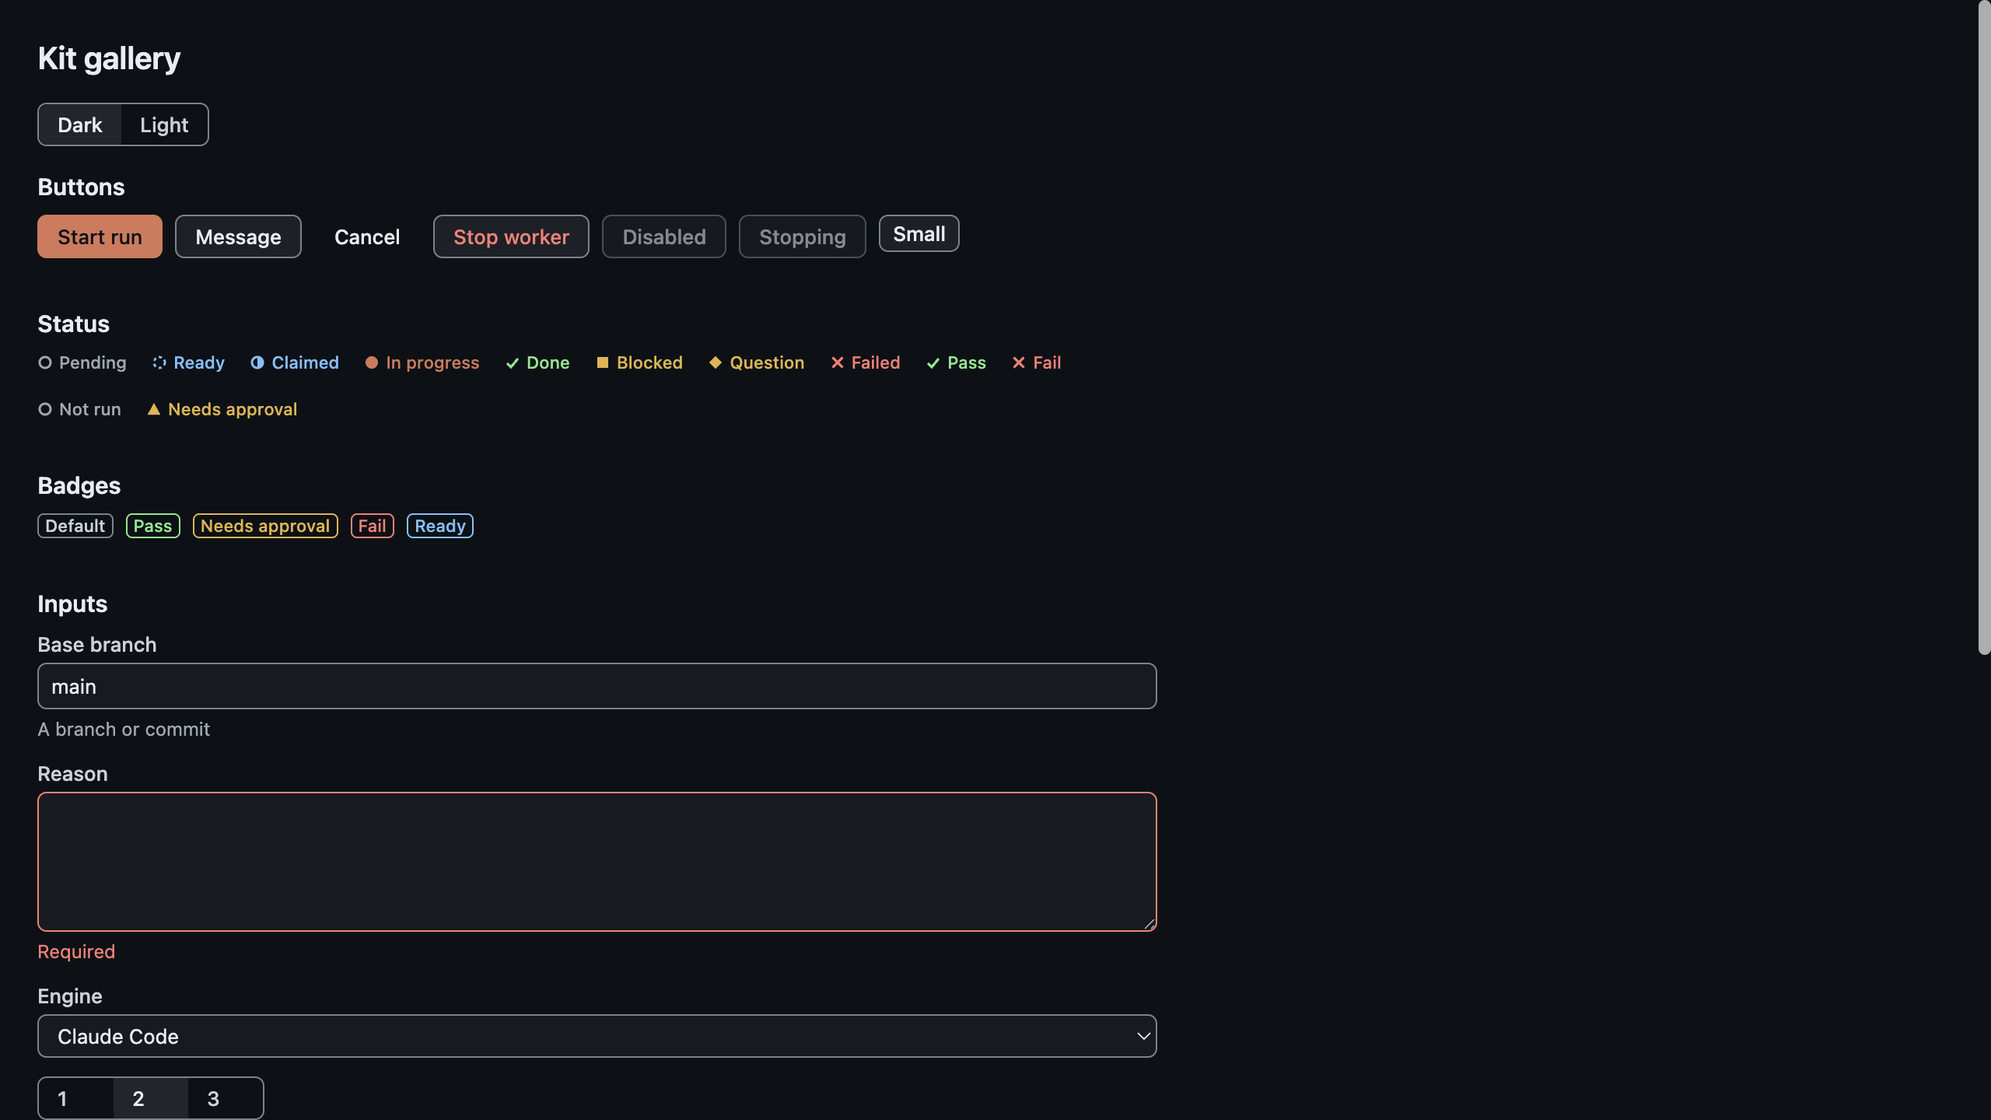
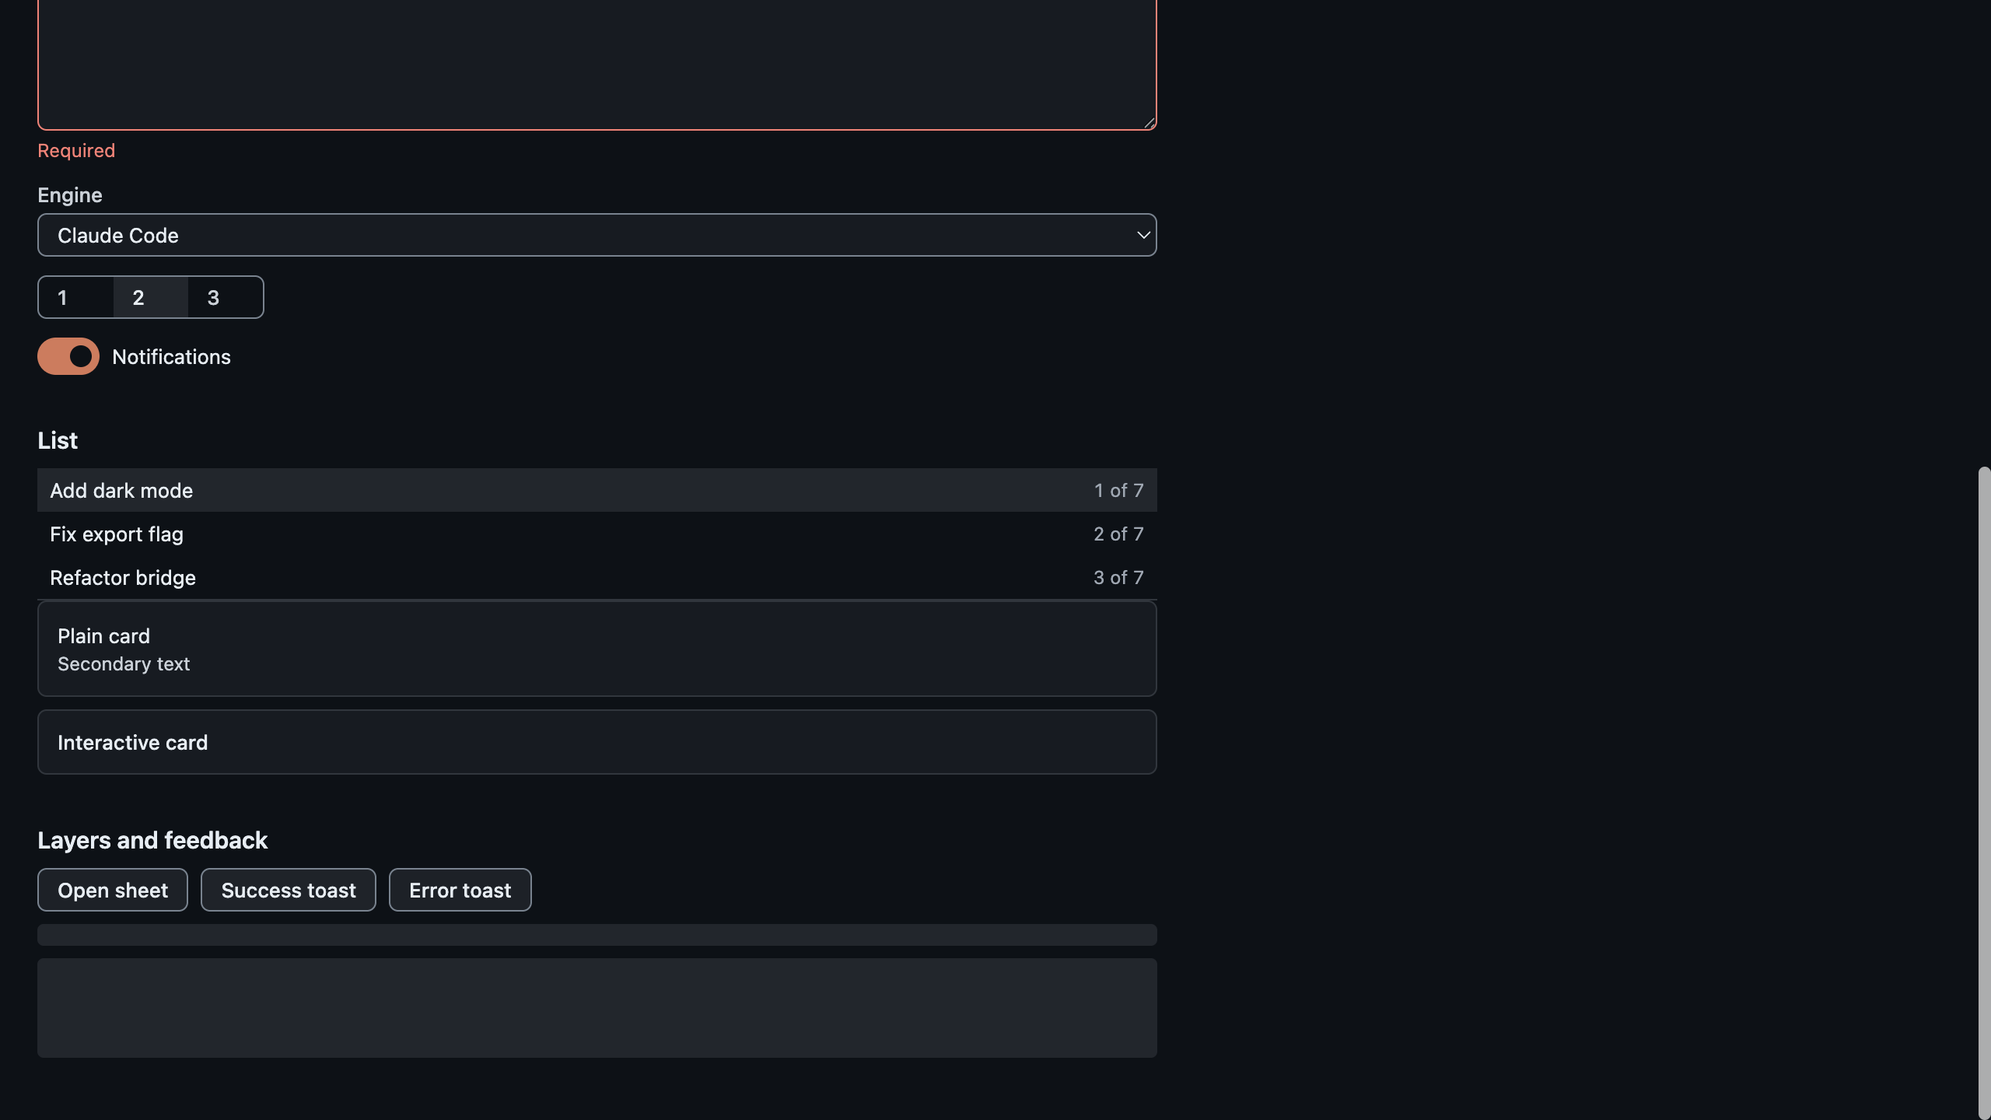
fix(ui): K2 review fixes: sheet close sync, toast timers and roles, listbox rows, native fieldset, simpler Button/Input/StatusDot

diff --git a/app/ui/tests/base.test.tsx b/app/ui/tests/base.test.tsx
@@ -49,9 +49,9 @@ describe("Button", () => {
     fireEvent.click(b);
     expect(f).not.toHaveBeenCalled();
   });
-  it("busy swaps the label and ignores clicks", () => {
+  it("busy is announced and ignores clicks", () => {
     const f = vi.fn();
-    render(<Button busy busyLabel="Stopping" onClick={f}>Stop worker</Button>);
+    render(<Button busy onClick={f}>Stopping</Button>);
     const b = screen.getByRole("button", { name: "Stopping" });
     expect(b.getAttribute("aria-busy")).toBe("true");
     fireEvent.click(b);
@@ -71,12 +71,11 @@ describe("Input", () => {
     const described = c.getAttribute("aria-describedby")!.split(" ").map((id) => document.getElementById(id)!.textContent);
     expect(described).toEqual(["A branch or commit", "Not found"]);
   });
-  it("covers text, number, textarea and select", () => {
+  it("covers text, textarea and select", () => {
     const f = vi.fn();
-    render(<><Input label="A" value="" onChange={f} /><Input label="B" type="number" value="1" onChange={f} /><Input label="C" type="textarea" value="" onChange={f} />
+    render(<><Input label="A" value="" onChange={f} /><Input label="C" type="textarea" value="" onChange={f} />
       <Input label="D" type="select" value="x" options={[{ value: "x", label: "X" }]} onChange={f} /></>);
     expect(screen.getByRole("textbox", { name: "A" })).toBeTruthy();
-    expect(screen.getByRole("spinbutton", { name: "B" })).toBeTruthy();
     expect(screen.getByRole("textbox", { name: "C" }).tagName).toBe("TEXTAREA");
     expect(screen.getByRole("combobox", { name: "D" })).toBeTruthy();
     fireEvent.change(screen.getByRole("textbox", { name: "A" }), { target: { value: "q" } });
@@ -85,21 +84,23 @@ describe("Input", () => {
 });
 
 describe("ListRow, SegmentedControl, Switch", () => {
-  it("ListRow is an option, selected state is exposed, Enter selects", () => {
+  it("ListRow is a tabbable option; selected is exposed only when given; Enter selects", () => {
     const f = vi.fn();
     render(<div role="listbox" aria-label="Runs"><ListRow selected meta="3 of 7">Run one</ListRow><ListRow onSelect={f}>Run two</ListRow></div>);
     expect(screen.getAllByRole("option")).toHaveLength(2);
     expect(screen.getByRole("option", { name: /Run one/ }).getAttribute("aria-selected")).toBe("true");
+    expect(screen.getByRole("option", { name: "Run two" }).hasAttribute("aria-selected")).toBe(false);
+    expect(screen.getAllByRole("option").every((o) => o.tabIndex === 0)).toBe(true);
     fireEvent.keyDown(screen.getByRole("option", { name: "Run two" }), { key: "Enter" });
     expect(f).toHaveBeenCalledOnce();
   });
-  it("SegmentedControl is a named radio group with one checked radio", () => {
+  it("SegmentedControl is a named fieldset of radios with one checked", () => {
     function Host() {
       const [v, setV] = useState<"2" | "3">("3");
       return <SegmentedControl label="Max rounds" value={v} onChange={setV} options={[{ value: "2", label: "2" }, { value: "3", label: "3" }]} />;
     }
     render(<Host />);
-    expect(screen.getByRole("radiogroup", { name: "Max rounds" })).toBeTruthy();
+    expect(screen.getByRole("group", { name: "Max rounds" })).toBeTruthy();
     expect((screen.getByRole("radio", { name: "3" }) as HTMLInputElement).checked).toBe(true);
     fireEvent.click(screen.getByRole("radio", { name: "2" }));
     expect((screen.getByRole("radio", { name: "2" }) as HTMLInputElement).checked).toBe(true);
@@ -125,10 +126,23 @@ describe("Sheet and AlertDialog", () => {
     expect(d.getAttribute("aria-labelledby")).toBeTruthy();
     expect(document.getElementById(d.getAttribute("aria-labelledby")!)!.textContent).toBe("Message Backend");
     fireEvent(d, new Event("cancel", { cancelable: true }));
+    fireEvent.mouseDown(d);
     fireEvent.click(d);
     expect(f).toHaveBeenCalledTimes(2);
     rerender(<Sheet open={false} onClose={f} title="Message Backend">body</Sheet>);
     expect(d.hasAttribute("open")).toBe(false);
+  });
+  it("Sheet tells the parent when the browser closes it, and the backdrop needs press and release", () => {
+    const f = vi.fn();
+    render(<Sheet open onClose={f} title="T">body</Sheet>);
+    const d = document.querySelector("dialog")!;
+    fireEvent(d, new Event("close"));
+    expect(f).toHaveBeenCalledTimes(1);
+    fireEvent.click(d);                       // release without a press on the backdrop (a drag that began inside)
+    expect(f).toHaveBeenCalledTimes(1);
+    fireEvent.mouseDown(d);
+    fireEvent.click(d);
+    expect(f).toHaveBeenCalledTimes(2);
   });
   it("AlertDialog is an alertdialog and focuses the safe button first", () => {
     const [yes, no] = [vi.fn(), vi.fn()];
@@ -157,6 +171,15 @@ describe("Toast and Skeleton", () => {
     fireEvent.mouseLeave(toast);
     act(() => { vi.advanceTimersByTime(5000); });
     expect(screen.queryByText("Stopped Backend at 14:22")).toBeNull();
+  });
+  it("an error toast is an alert and stays until dismissed", () => {
+    vi.useFakeTimers();
+    function Err() { const { toasts, push, dismiss } = useToasts(); return <><Button onClick={() => push("danger", "Could not write the queue entry")}>Go</Button><ToastRegion toasts={toasts} onDismiss={dismiss} /></>; }
+    render(<Err />);
+    fireEvent.click(screen.getByRole("button", { name: "Go" }));
+    expect(screen.getByRole("alert").textContent).toContain("Could not write the queue entry");
+    act(() => { vi.advanceTimersByTime(60000); });
+    expect(screen.queryByText("Could not write the queue entry")).toBeTruthy();
   });
   it("can be dismissed with its button", () => {
     render(<Host />);

diff --git a/app/ui/components/ui/base/base.css b/app/ui/components/ui/base/base.css
@@ -61,19 +61,19 @@ textarea.v-input { height: auto; min-height: 72px; padding: var(--space-sm); res
 .v-section__head { display: flex; align-items: center; justify-content: space-between; margin-bottom: var(--space-sm); }
 
 .v-seg { display: inline-flex; width: fit-content; border: 1px solid var(--c-border-strong); border-radius: var(--radius-md); overflow: hidden; margin: 0; padding: 0; }
-.v-seg label { display: inline-flex; align-items: center; min-width: var(--target-min); height: calc(var(--row-h) - 2px); padding: 0 var(--space-md); color: var(--c-text-secondary); font: 500 13px/16px var(--font-ui); }
+.v-seg label { position: relative; display: inline-flex; align-items: center; min-width: var(--target-min); height: calc(var(--row-h) - 2px); padding: 0 var(--space-md); color: var(--c-text-secondary); font: 500 13px/16px var(--font-ui); }
 .v-seg input { position: absolute; opacity: 0; width: 1px; height: 1px; }
 .v-seg label:has(input:checked) { background: var(--c-accent); color: var(--c-text); }
 .v-seg label:has(input:focus-visible) { outline: 2px solid var(--c-focus-ring); outline-offset: -2px; }
 
-.v-switch { position: relative; width: 36px; height: 20px; padding: 0; border: 1px solid var(--c-border-strong); border-radius: 10px; background: var(--c-surface); }
-.v-switch::after { content: ""; position: absolute; top: 2px; left: 2px; width: 14px; height: 14px; border-radius: 7px; background: var(--c-text-secondary); transition: transform var(--t-fast) ease-out; }
+.v-switch { position: relative; width: 40px; height: var(--target-min); padding: 0; border: 1px solid var(--c-border-strong); border-radius: 12px; background: var(--c-surface); }
+.v-switch::after { content: ""; position: absolute; top: 4px; left: 4px; width: 14px; height: 14px; border-radius: 7px; background: var(--c-text-secondary); transition: transform var(--t-fast) ease-out; }
 .v-switch[aria-checked="true"] { background: var(--c-primary); border-color: var(--c-primary); }
 .v-switch[aria-checked="true"]::after { background: var(--c-text-on-primary); transform: translateX(16px); }
 
 .v-dialog { padding: var(--space-lg); background: var(--c-surface-elevated); color: var(--c-text); border: 1px solid var(--c-border); border-radius: var(--radius-md); box-shadow: var(--shadow-floating); max-width: min(480px, calc(100vw - 32px)); }
 .v-dialog::backdrop { background: color-mix(in srgb, var(--c-background) 60%, transparent); }
-.v-dialog--right { margin: 0 0 0 auto; height: 100vh; max-height: none; width: 360px; border-radius: 0; }
+.v-dialog--right { margin: 0 0 0 auto; height: 100vh; max-height: none; width: 360px; border-radius: 0; overflow-y: auto; }
 .v-dialog__actions { display: flex; justify-content: flex-end; gap: var(--space-sm); margin-top: var(--space-lg); }
 
 .v-toasts { position: fixed; right: var(--space-lg); bottom: var(--space-lg); display: flex; flex-direction: column; gap: var(--space-sm); }
@@ -97,3 +97,7 @@ textarea.v-input { height: auto; min-height: 72px; padding: var(--space-sm); res
 .v-status--blocked, .v-status--question, .v-status--needs_approval { color: var(--c-warning); }
 .v-status--failed, .v-status--fail { color: var(--c-danger); }
 .v-status--unknown { color: var(--c-text-muted); }
+
+.v-sr { position: absolute; width: 1px; height: 1px; overflow: hidden; clip-path: inset(50%); white-space: nowrap; }
+.v-toasts { pointer-events: none; }
+.v-toast { pointer-events: auto; }

diff --git a/app/ui/components/ui/base/Toast.tsx b/app/ui/components/ui/base/Toast.tsx
@@ -1,5 +1,6 @@
 import { useCallback, useEffect, useRef, useState } from "react";
 import { S } from "../../../strings";
+import type { StatusKey } from "../../../strings";
 import { cn } from "../cn";
 import { Button } from "./Button";
 import { StatusDot } from "./StatusDot";
@@ -7,21 +8,26 @@ import { StatusDot } from "./StatusDot";
 export type ToastItem = { id: number; kind: "info" | "success" | "danger"; text: string };
 
 const SHOWN_MS = 5000;
+const DOT: Record<ToastItem["kind"], StatusKey> = { info: "ready", success: "done", danger: "failed" };
 
 function ToastView({ item, onDismiss }: { item: ToastItem; onDismiss: (id: number) => void }) {
-  const timer = useRef<ReturnType<typeof setTimeout>>();
-  const start = useCallback(() => {
-    timer.current = setTimeout(() => onDismiss(item.id), SHOWN_MS);
-  }, [item.id, onDismiss]);
-  const pause = () => clearTimeout(timer.current);
+  const [paused, setPaused] = useState(false);
+  // Info and success go after 5 s unless hovered or focused. An error stays until the user dismisses it (WCAG 2.2.1).
   useEffect(() => {
-    start();
-    return pause;
-  }, [start]);
-  const dot = item.kind === "danger" ? "failed" : item.kind === "success" ? "done" : "ready";
+    if (paused || item.kind === "danger") return;
+    const t = setTimeout(() => onDismiss(item.id), SHOWN_MS);
+    return () => clearTimeout(t);
+  }, [paused, item.id, item.kind, onDismiss]);
   return (
-    <div className={cn("v-toast", `v-toast--${item.kind}`)} onMouseEnter={pause} onMouseLeave={start} onFocus={pause} onBlur={start}>
-      <StatusDot status={dot} label="" />
+    <div
+      className={cn("v-toast", `v-toast--${item.kind}`)}
+      role={item.kind === "danger" ? "alert" : undefined}
+      onMouseEnter={() => setPaused(true)}
+      onMouseLeave={() => setPaused(false)}
+      onFocus={() => setPaused(true)}
+      onBlur={(e) => !e.currentTarget.contains(e.relatedTarget) && setPaused(false)}
+    >
+      <StatusDot status={DOT[item.kind]} />
       <span>{item.text}</span>
       <Button size="sm" variant="ghost" onClick={() => onDismiss(item.id)}>
         {S.dismiss}

diff --git a/app/ui/components/ui/base/StatusDot.tsx b/app/ui/components/ui/base/StatusDot.tsx
@@ -3,9 +3,12 @@ import type { StatusKey } from "../../../strings";
 import { cn } from "../cn";
 
 // One SVG shape per status (DESIGN.md "Status vocabulary"): the shape and the text carry the meaning, color backs it up.
+const RING = <circle cx="5" cy="5" r="3.5" fill="none" stroke="currentColor" strokeWidth="1.5" />;
+const CHECK = <path d="M1.5 5.5l2.5 2.5 4.5-5.5" fill="none" stroke="currentColor" strokeWidth="1.6" />;
+const CROSS = <path d="M1.8 1.8l6.4 6.4M8.2 1.8L1.8 8.2" fill="none" stroke="currentColor" strokeWidth="1.6" />;
 const SHAPES: Record<StatusKey, JSX.Element> = {
-  pending: <circle cx="5" cy="5" r="3.5" fill="none" stroke="currentColor" strokeWidth="1.5" />,
-  unknown: <circle cx="5" cy="5" r="3.5" fill="none" stroke="currentColor" strokeWidth="1.5" />,
+  pending: RING,
+  unknown: RING,
   ready: <circle cx="5" cy="5" r="3.5" fill="none" stroke="currentColor" strokeWidth="1.5" strokeDasharray="2 2" />,
   claimed: (
     <>
@@ -14,12 +17,12 @@ const SHAPES: Record<StatusKey, JSX.Element> = {
     </>
   ),
   in_progress: <circle cx="5" cy="5" r="4" fill="currentColor" />,
-  done: <path d="M1.5 5.5l2.5 2.5 4.5-5.5" fill="none" stroke="currentColor" strokeWidth="1.6" />,
-  pass: <path d="M1.5 5.5l2.5 2.5 4.5-5.5" fill="none" stroke="currentColor" strokeWidth="1.6" />,
+  done: CHECK,
+  pass: CHECK,
   blocked: <rect x="1.5" y="1.5" width="7" height="7" fill="currentColor" />,
   question: <path d="M5 .8L9.2 5 5 9.2.8 5z" fill="currentColor" />,
-  failed: <path d="M1.8 1.8l6.4 6.4M8.2 1.8L1.8 8.2" fill="none" stroke="currentColor" strokeWidth="1.6" />,
-  fail: <path d="M1.8 1.8l6.4 6.4M8.2 1.8L1.8 8.2" fill="none" stroke="currentColor" strokeWidth="1.6" />,
+  failed: CROSS,
+  fail: CROSS,
   needs_approval: <path d="M5 1L9.2 8.6H.8z" fill="currentColor" />,
 };
 

diff --git a/app/ui/components/ui/base/Input.tsx b/app/ui/components/ui/base/Input.tsx
@@ -3,8 +3,8 @@ import type { ReactNode } from "react";
 
 type Common = { label: string; error?: string; hint?: string; id?: string };
 type Props =
-  | (Common & { type?: "text" | "number"; value: string; onChange: (v: string) => void; placeholder?: string })
-  | (Common & { type: "textarea"; value: string; onChange: (v: string) => void; rows?: number })
+  | (Common & { type?: "text"; value: string; onChange: (v: string) => void; placeholder?: string })
+  | (Common & { type: "textarea"; value: string; onChange: (v: string) => void; rows?: number; placeholder?: string })
   | (Common & { type: "select"; value: string; onChange: (v: string) => void; options: Array<{ value: string; label: string }> });
 
 /** Label, control, hint and error wired together: `<label>`, aria-invalid, aria-describedby. */
@@ -21,7 +21,7 @@ export function Input(props: Props) {
   } as const;
   let control: ReactNode;
   if (props.type === "textarea") {
-    control = <textarea {...common} rows={props.rows} value={props.value} onChange={(e) => props.onChange(e.target.value)} />;
+    control = <textarea {...common} rows={props.rows} placeholder={props.placeholder} value={props.value} onChange={(e) => props.onChange(e.target.value)} />;
   } else if (props.type === "select") {
     control = (
       <select {...common} value={props.value} onChange={(e) => props.onChange(e.target.value)}>
@@ -49,7 +49,7 @@ export function Input(props: Props) {
         </span>
       )}
       {props.error && (
-        <span id={errId} className="v-field__error">
+        <span id={errId} className="v-field__error" role="alert">
           {props.error}
         </span>
       )}

diff --git a/app/ui/components/ui/base/ListRow.tsx b/app/ui/components/ui/base/ListRow.tsx
@@ -1,22 +1,8 @@
 import type { KeyboardEvent, ReactNode } from "react";
 import { cn } from "../cn";
 
-/** A 28 px row. The parent supplies the container role: `listbox` gives rows `option`, a grid gives `row`. */
-export function ListRow({
-  role = "option",
-  selected,
-  meta,
-  onSelect,
-  className,
-  children,
-}: {
-  role?: "option" | "row";
-  selected?: boolean;
-  meta?: ReactNode;
-  onSelect?: () => void;
-  className?: string;
-  children: ReactNode;
-}) {
+/** A 28 px `option` row; put it inside a `listbox`. `selected` is exposed only when the list is selectable. */
+export function ListRow({ selected, meta, onSelect, className, children }: { selected?: boolean; meta?: ReactNode; onSelect?: () => void; className?: string; children: ReactNode }) {
   const key = (e: KeyboardEvent) => {
     if (onSelect && (e.key === "Enter" || e.key === " ")) {
       e.preventDefault();
@@ -24,14 +10,7 @@ export function ListRow({
     }
   };
   return (
-    <div
-      role={role}
-      aria-selected={selected ?? false}
-      tabIndex={selected ? 0 : -1}
-      className={cn("v-row", className)}
-      onClick={onSelect}
-      onKeyDown={key}
-    >
+    <div role="option" aria-selected={selected} tabIndex={0} className={cn("v-row", className)} onClick={onSelect} onKeyDown={key}>
       <span>{children}</span>
       {meta != null && <span className="v-row__meta">{meta}</span>}
     </div>

diff --git a/app/ui/components/ui/base/Button.tsx b/app/ui/components/ui/base/Button.tsx
@@ -7,15 +7,14 @@ type Base = Omit<ButtonHTMLAttributes<HTMLButtonElement>, "disabled" | "children
   size?: "sm" | "md";
   /** Uses aria-disabled so the button stays focusable and announced. */
   disabled?: boolean;
-  /** The label changes while busy (for example "Stopping"); the click is ignored. */
+  /** While busy the click is ignored; pass the busy wording as children (for example "Stopping"). */
   busy?: boolean;
-  busyLabel?: string;
 };
 
 // An icon-only button must carry an accessible name.
 type Props = Base & ({ children: ReactNode } | { children?: undefined; "aria-label": string });
 
-export function Button({ variant = "secondary", size = "md", disabled, busy, busyLabel, onClick, className, children, ...rest }: Props) {
+export function Button({ variant = "secondary", size = "md", disabled, busy, onClick, className, children, ...rest }: Props) {
   const off = disabled || busy;
   const click = (e: MouseEvent<HTMLButtonElement>) => {
     if (off) e.preventDefault();
@@ -30,7 +29,7 @@ export function Button({ variant = "secondary", size = "md", disabled, busy, bus
       className={cn("v-button", `v-button--${variant}`, size === "sm" && "v-button--sm", className)}
       onClick={click}
     >
-      {busy && busyLabel ? busyLabel : children}
+      {children}
     </button>
   );
 }

diff --git a/app/ui/components/ui/base/SegmentedControl.tsx b/app/ui/components/ui/base/SegmentedControl.tsx
@@ -1,20 +1,11 @@
 import { useId } from "react";
 
-/** 2 to 4 options as a native radio group: arrow keys, one tab stop and announcements come from the browser. */
-export function SegmentedControl<V extends string>({
-  label,
-  value,
-  options,
-  onChange,
-}: {
-  label: string;
-  value: V;
-  options: ReadonlyArray<{ value: V; label: string }>;
-  onChange: (v: V) => void;
-}) {
+/** 2 to 4 options as native radios in a fieldset: arrow keys, one tab stop and announcements come from the browser. */
+export function SegmentedControl<V extends string>({ label, value, options, onChange }: { label: string; value: V; options: ReadonlyArray<{ value: V; label: string }>; onChange: (v: V) => void }) {
   const name = useId();
   return (
-    <fieldset className="v-seg" role="radiogroup" aria-label={label}>
+    <fieldset className="v-seg">
+      <legend className="v-sr">{label}</legend>
       {options.map((o) => (
         <label key={o.value}>
           <input type="radio" name={name} value={o.value} checked={o.value === value} onChange={() => onChange(o.value)} />

diff --git a/app/ui/components/ui/base/Sheet.tsx b/app/ui/components/ui/base/Sheet.tsx
@@ -24,6 +24,7 @@ export function Sheet({
   children: ReactNode;
 }) {
   const ref = useRef<HTMLDialogElement>(null);
+  const pressedBackdrop = useRef(false);
   const titleId = useId();
   useEffect(() => {
     const d = ref.current;
@@ -45,8 +46,14 @@ export function Sheet({
         e.preventDefault();
         onClose();
       }}
+      // A close the parent did not ask for (form method=dialog, programmatic close) still reaches the parent.
+      onClose={() => open && onClose()}
+      // Press and release both on the backdrop: a text selection dragged out of the dialog must not close it.
+      onMouseDown={(e) => {
+        pressedBackdrop.current = e.target === ref.current;
+      }}
       onClick={(e) => {
-        if (e.target === ref.current) onClose();
+        if (e.target === ref.current && pressedBackdrop.current) onClose();
       }}
     >
       <h2 id={titleId} className="v-text v-text--headline-md">

diff --git a/app/ui/src/Gallery.tsx b/app/ui/src/Gallery.tsx
@@ -27,7 +27,7 @@ export function Gallery() {
           <Button variant="ghost">Cancel</Button>
           <Button variant="danger" onClick={() => setStop(true)}>Stop worker</Button>
           <Button disabled>Disabled</Button>
-          <Button busy busyLabel="Stopping">Stop worker</Button>
+          <Button busy>Stopping</Button>
           <Button size="sm">Small</Button>
         </div>
       </Section>
